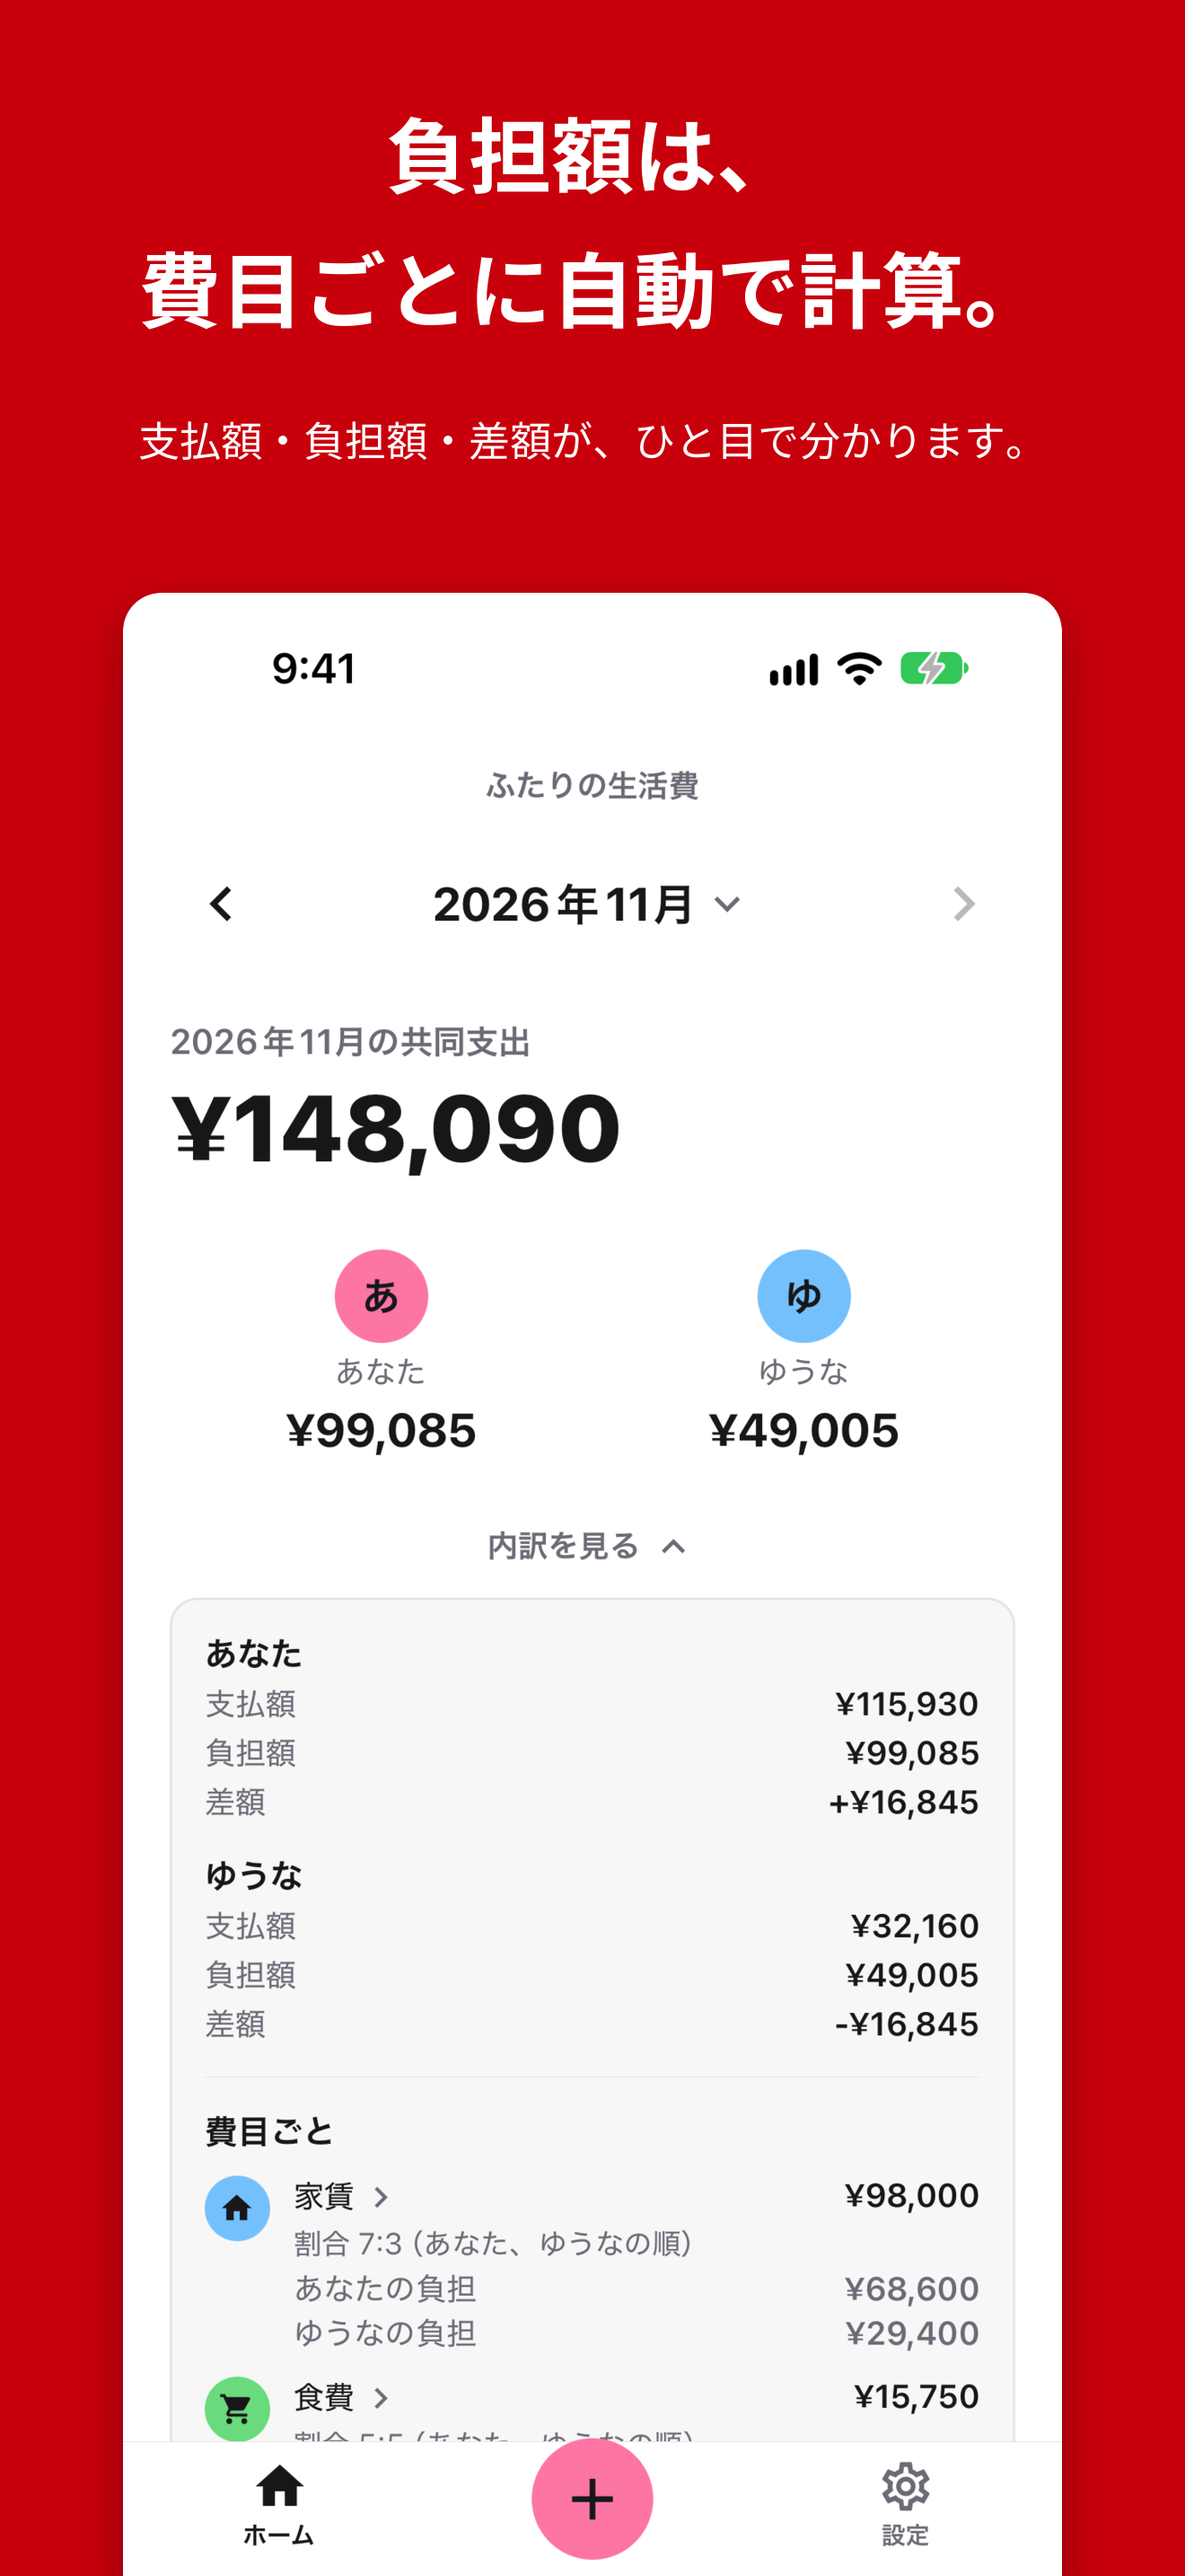
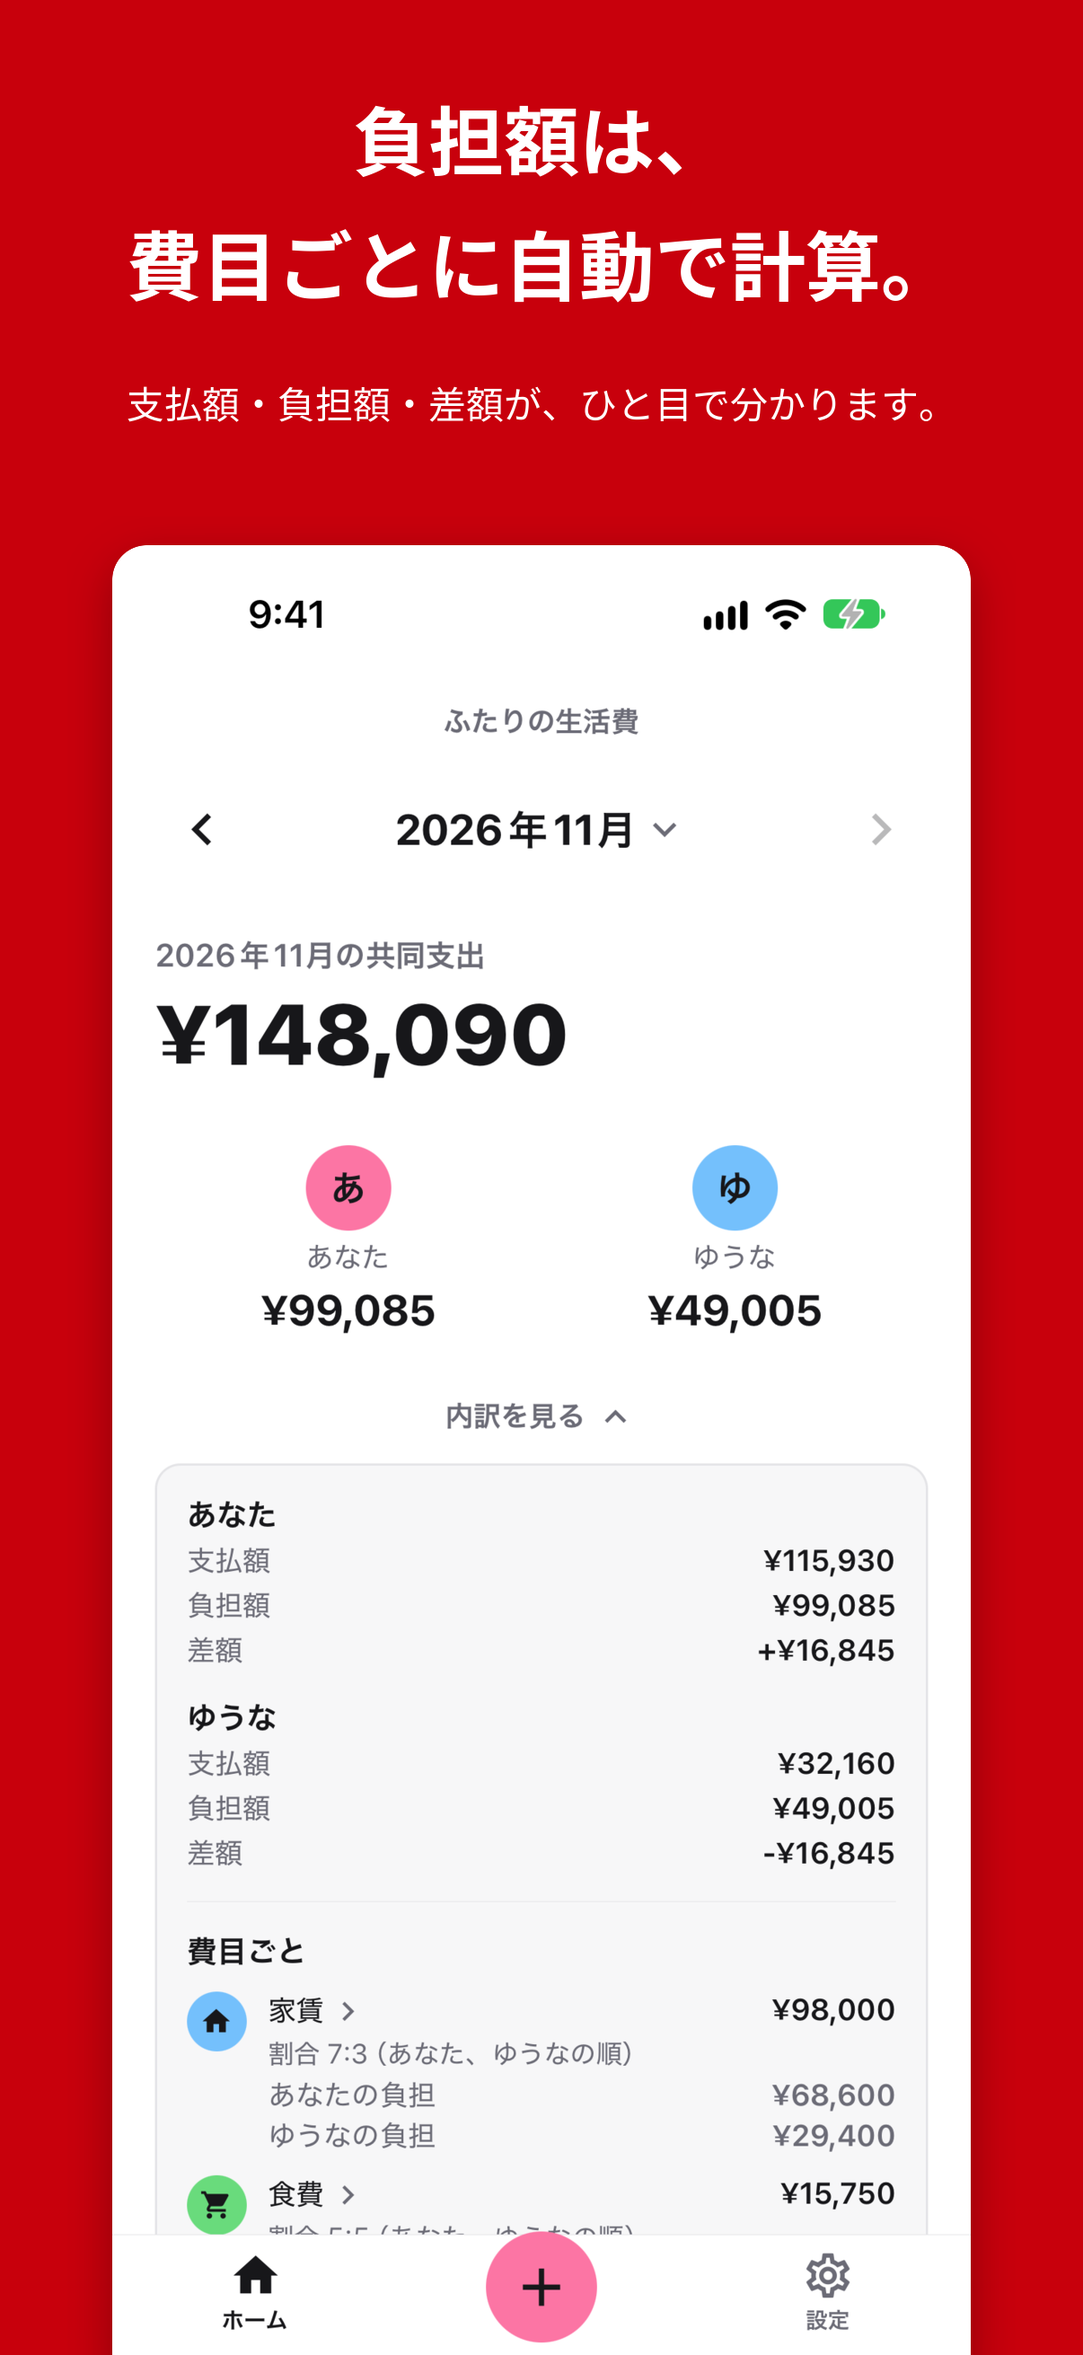
[fix] App Storeのスクショを、ASCが受け付ける1206x2622で作る（1320x2868は枠に入らなかった）。偽サーバーに、締める・精算の状態を持たせる

diff --git a/scripts/store-screenshots/fakeServer.js b/scripts/store-screenshots/fakeServer.js
@@ -126,6 +126,9 @@ const EXPENSE_ROWS = {
 };
 
 const CLOSED_MONTHS = new Set(['2026-09', '2026-10']);
+// 画面収録のために、締める・精算の書き込みを受けて、状態を変える（アプリを起動し直すと、元に戻る）。
+// 送金の状態: id -> 'pending' | 'settled' | 'carried'
+const TRANSFER_STATE = new Map();
 
 function expensesOf(month) {
   const rows = EXPENSE_ROWS[month] ?? [];
@@ -159,6 +162,17 @@ function burdenOf(categoryId, totalMinor) {
   const capped = Math.min(totalMinor, rule.cap.capMinor);
   const [mineExcess, partnerExcess] = split(totalMinor - capped);
   return rule.cap.memberId === ME ? [capped + mineExcess, partnerExcess] : [mineExcess, capped + partnerExcess];
+}
+
+/** 締めた月の送金の状態（締めたあと、精算・繰越の書き込みで変わる。既定は未処理）。 */
+function transferStatus(month) {
+  return TRANSFER_STATE.get(`t-${month}`) ?? 'pending';
+}
+
+/** 月の一覧の状態（保存せず、締めと送金の状態から毎回導く） */
+function monthStatus(month) {
+  if (!CLOSED_MONTHS.has(month)) return 'open';
+  return month === '2026-10' || transferStatus(month) !== 'pending' ? 'settled' : 'unsettled';
 }
 
 function monthView(month) {
@@ -212,11 +226,11 @@ function monthView(month) {
               fromMemberId: debtor.memberId,
               toMemberId: creditor.memberId,
               amountMinor: creditor.netMinor,
-              status: 'pending',
-              settledAt: null,
-              carriedAt: null,
-              processedByMemberId: null,
-              canCarry: true,
+              status: transferStatus(month),
+              settledAt: transferStatus(month) === 'settled' ? Date.UTC(2026, 10, 27) : null,
+              carriedAt: transferStatus(month) === 'carried' ? Date.UTC(2026, 10, 27) : null,
+              processedByMemberId: transferStatus(month) === 'pending' ? null : ME,
+              canCarry: transferStatus(month) === 'pending',
             },
           ]
         : [];
@@ -224,7 +238,7 @@ function monthView(month) {
     month,
     closed,
     closing: closed
-      ? { id: `cl-${month}`, closedAt: Date.UTC(2026, 9, 31, 12), closedByMemberId: ME, processed: false }
+      ? { id: `cl-${month}`, closedAt: Date.UTC(2026, 9, 31, 12), closedByMemberId: ME, processed: transferStatus(month) !== 'pending' }
       : null,
     totalMinor: expenses.reduce((sum, expense) => sum + expense.amountMinor, 0),
     members,
@@ -299,8 +313,22 @@ function parse(url) {
 }
 
 function route(method, url) {
-  if (method !== 'GET') return { status: 404, body: { error: 'not_found' } };
   const { segments, params } = parse(url);
+  if (method === 'POST') {
+    // 締める: POST /groups/g1/months/2026-11/close（11月だけ）
+    if (segments[0] === 'groups' && segments[1] === GROUP_ID && segments[2] === 'months' && segments[4] === 'close') {
+      if (segments[3] !== '2026-11' || CLOSED_MONTHS.has('2026-11')) return { status: 409, body: { error: 'conflict' } };
+      CLOSED_MONTHS.add('2026-11');
+      return { status: 201, body: monthView('2026-11') };
+    }
+    // 精算完了・繰越: POST /transfers/t-2026-11/settle|carry
+    if (segments[0] === 'transfers' && (segments[2] === 'settle' || segments[2] === 'carry')) {
+      TRANSFER_STATE.set(segments[1], segments[2] === 'settle' ? 'settled' : 'carried');
+      return { status: 200, body: { transfer: { id: segments[1] } } };
+    }
+    return { status: 404, body: { error: 'not_found' } };
+  }
+  if (method !== 'GET') return { status: 404, body: { error: 'not_found' } };
   if (segments.length === 1 && segments[0] === 'groups') return { status: 200, body: { groups: [GROUP_LIST_ITEM] } };
   if (segments[0] !== 'groups' || segments[1] !== GROUP_ID) return { status: 404, body: { error: 'not_found' } };
   const rest = segments.slice(2).join('/');
@@ -313,7 +341,7 @@ function route(method, url) {
         months: [
           { month: '2026-09', status: 'settled' },
           { month: '2026-10', status: 'settled' },
-          { month: '2026-11', status: 'open' },
+          { month: '2026-11', status: monthStatus('2026-11') },
         ],
       },
     };

diff --git a/docs/store-listing.md b/docs/store-listing.md
@@ -198,7 +198,7 @@ The app has no ads, no in-app purchases, and no tracking. Privacy policy: https:
 
 - **フィーチャーグラフィック（Google Play）**: `assets/feature-graphic.png`（1024×500、透過なし）。赤地（`#C8000C`）に白で「わりかん生活」。**仮案**（plan.md 14章）。
 - **アプリアイコン**: `assets/icon.png`（1024×1024、透過なし）。Playのストア用は `assets/play-store-icon-512.png`（512×512、`icon.png` を縮小）。
-- **スクリーンショット**: 7枚。`assets/store-screenshots/` に、撮影画像（`raw/ja/` がiOSシミュレータの iPhone 18 Pro・1206×2622、`raw-android/ja/` がAndroidエミュレータ・1080×2424）と、見出しを合成した完成品（`ios/ja/` が1320×2868、`play/ja/` が1080×1920）がある。完成品を、ストアへ上げる。合成は `scripts/store-screenshots/compose.sh`（生成物は手で編集しない）。
+- **スクリーンショット**: 7枚。`assets/store-screenshots/` に、撮影画像（`raw/ja/` がiOSシミュレータの iPhone 18 Pro・1206×2622、`raw-android/ja/` がAndroidエミュレータ・1080×2424）と、見出しを合成した完成品（`ios/ja/` が**1206×2622**、`ios-large/ja/` が1320×2868、`play/ja/` が1080×1920）がある。App Store Connect の iPhone 6.3インチの枠（必須）が受け付けるのは、1179×2556 と 1206×2622 だけなので、**App Storeへ上げるのは `ios/ja/`**（`ios-large/ja/` は、6.9インチの枠に別に上げたいときだけ。1320×2868 はこの枠に入らない）。Playは `play/ja/`。合成は `scripts/store-screenshots/compose.sh`（生成物は手で編集しない）。
   - 見出しは、このアプリの言葉で書いた（plan.md 14章の方針。他のアプリの文言を使わない）。背景は、赤（`#C8000C`。アイコンの地。白い文字が約5.9:1）と、淡いピンク（アクセント `#FC75A4` を白に約32%混ぜた派生色）を交互にした。白に近い中立色は、白いストアのページで画像の縁が消えるので使わない。書体は Noto Sans JP（OFL。`scripts/store-screenshots/fonts/`）。
 
 | 番号 | 見出し | 補足 | 画面 |
@@ -220,7 +220,7 @@ The app has no ads, no in-app purchases, and no tracking. Privacy policy: https:
     4. 画面を開いて撮る（`adb exec-out screencap -p`、`xcrun simctl io <UDID> screenshot`）。手順: ホーム（01）、設定 → カテゴリと負担割合（02）、外食の行（03）、「＋」で金額 `4280`・費目「食費」を選ぶ（04）、ホームで「内訳を見る」（05）、ホームの月の「＜」で10月（06）、設定 → 固定費（07）。
     5. `scripts/store-screenshots/compose.sh`（必要なら、画像の名前を引数に渡す）。
     6. **`scripts/store-screenshots/fake-mode.sh off` で戻す。** `src/appConfig.test.ts` が、`main` が `expo-router/entry` であることを `npm test` で確かめる（偽の入口のまま出荷しない）。
-  - App Store は、1枚から10枚。JPEG・PNG、透過なし。iPhoneの必須サイズは、提出のとき App Store Connect で確かめる（1320×2868 だけで、小さい端末の枠が埋まるかも、そのとき）。Google Play は、スマートフォン用に2〜8枚（JPEG または 24ビットPNG。辺は320〜3840px。長辺は短辺の2倍まで。9:16 の 1080px 以上を4枚以上出すと、おすすめの掲載の対象になる）。
+  - App Store は、1枚から10枚。JPEG・PNG、透過なし。iPhone 6.3インチの枠の対応サイズは、1179×2556・2556×1179・1206×2622・2622×1206（2026-11-27に、App Store Connect の画面で確認した）。Google Play は、スマートフォン用に2〜8枚（JPEG または 24ビットPNG。辺は320〜3840px。長辺は短辺の2倍まで。9:16 の 1080px 以上を4枚以上出すと、おすすめの掲載の対象になる）。
 
 ## 5. この内容が前提にしていること
 
